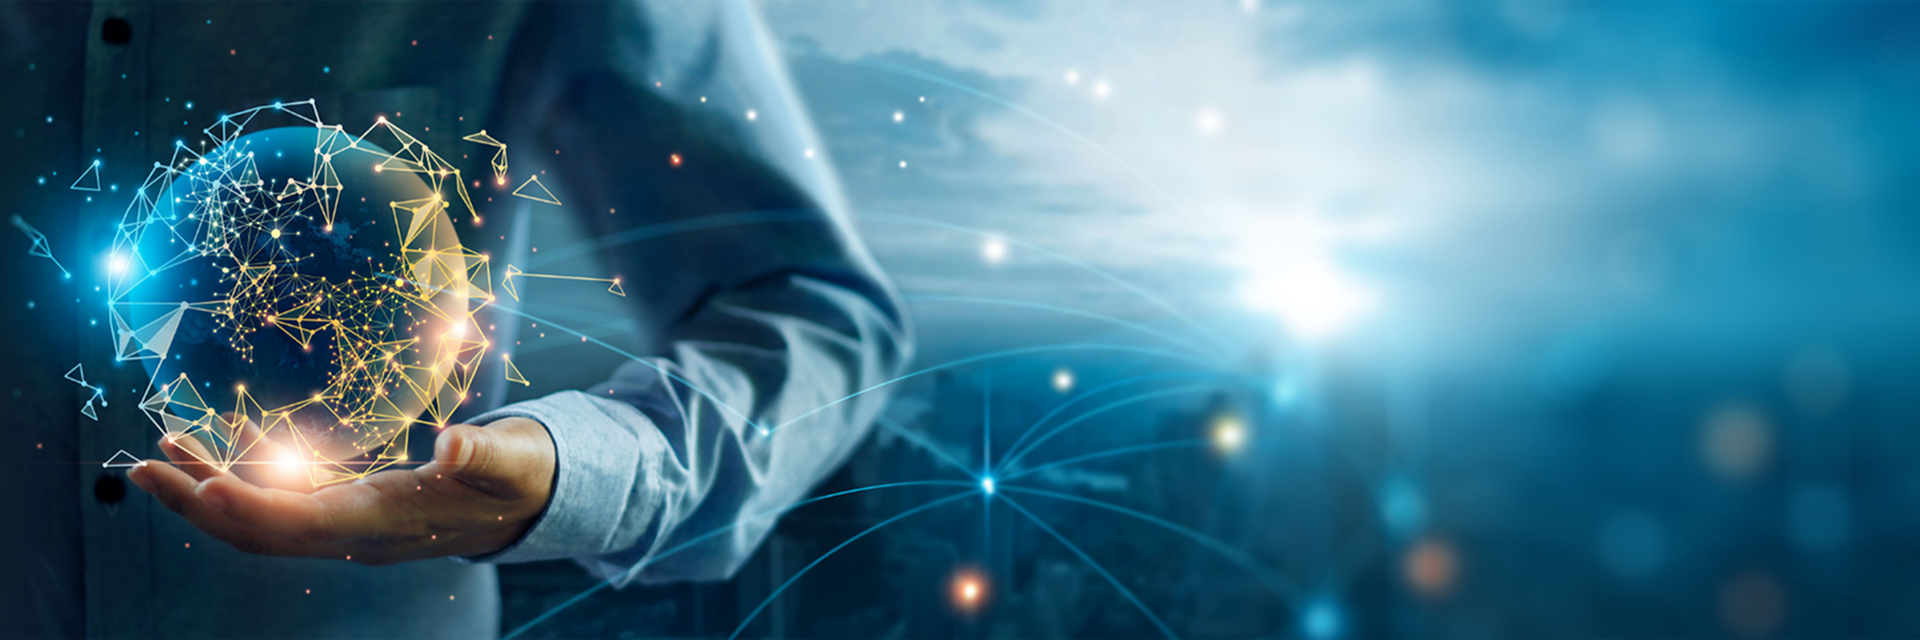
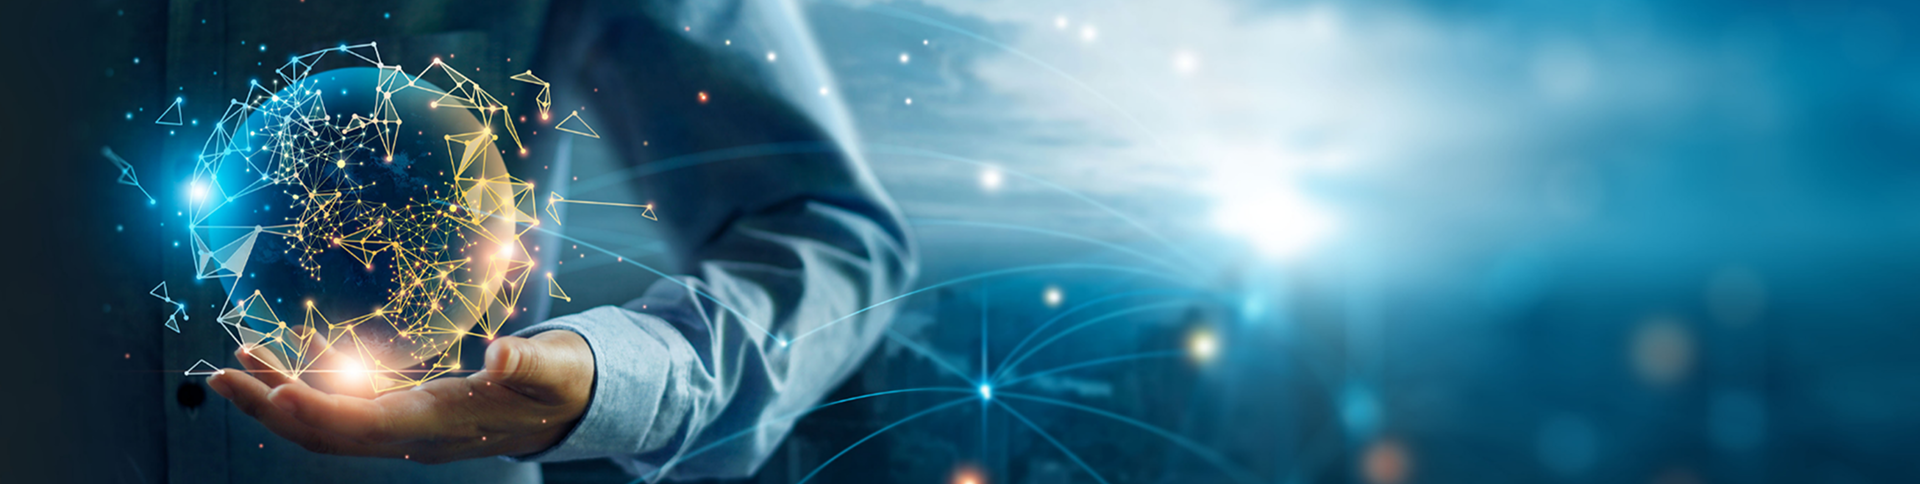
ui: 260107 피드백 반영 #124

diff --git a/src/pages/company/History.tsx b/src/pages/company/History.tsx
@@ -11,7 +11,7 @@ const History = () => {
     history_image_position,
   } = history;
   return (
-    <Box sx={{ display: "flex", flexDirection: "column" }}>
+    <Box sx={{ display: "flex", flexDirection: "column", mb: 20 }}>
       <Box
         sx={(theme) => ({
           px: "20px",
@@ -31,12 +31,13 @@ const History = () => {
         sx={(theme) => ({
           display: "flex",
           flexDirection: "column",
-          gap: 6,
+          gap: 4,
           my: 10,
           px: "20px",
           pt: "20px",
           [theme.breakpoints.up("tablet")]: {
             px: 10,
+            gap: 6,
           },
           [theme.breakpoints.up("desktop")]: {
             pt: "50px",
@@ -62,10 +63,9 @@ const History = () => {
           {history_title}
         </Typography>
         <Stack
-          sx={(theme) => ({
-            gap: 3,
-            [theme.breakpoints.up("desktop")]: { gap: 8 },
-          })}
+          sx={{
+            gap: 8,
+          }}
         >
           {history_list.map((item, index) => (
             <Box

diff --git a/src/components/company/ImageHeader.tsx b/src/components/company/ImageHeader.tsx
@@ -12,13 +12,13 @@ const ImageHeader = ({
       sx={(theme) => ({
         backgroundImage: `url(${imgUrl})`,
         width: "100%",
-        height: "640px",
+        height: "457px",
         backgroundPosition: imgPosition,
         borderRadius: "16px",
+        backgroundRepeat: "no-repeat",
         [theme.breakpoints.up("tablet")]: {
           m: 0,
           borderRadius: 0,
-          marginTop: "-2%",
         },
       })}
     />

diff --git a/src/theme/theme.ts b/src/theme/theme.ts
@@ -483,11 +483,11 @@ const theme = createTheme({
         mobilePortrait: "32px",
         mobileLandscape: "48px",
         tablet: "64px",
-        desktop: "80px",
+        desktop: "240px",
       },
       display: "flex",
       flexDirection: "column",
-      gap: "48px",
+      gap: "128px",
     },
     // Contact 페이지 상단 영역 (제목 + 폼) 컨테이너 스타일
     contactTopContainer: {

diff --git a/src/pages/company/CEO.tsx b/src/pages/company/CEO.tsx
@@ -13,7 +13,7 @@ const CEO = () => {
     ceo_image_position,
   } = ceo;
   return (
-    <Box sx={{ display: "flex", flexDirection: "column" }}>
+    <Box sx={{ display: "flex", flexDirection: "column", mb: 20 }}>
       <Box
         sx={(theme) => ({
           px: "20px",

diff --git a/src/pages/company/Partner.tsx b/src/pages/company/Partner.tsx
@@ -46,7 +46,7 @@ const Partner = () => {
   );
 
   return (
-    <Box sx={{ display: "flex", flexDirection: "column" }}>
+    <Box sx={{ display: "flex", flexDirection: "column", mb: 20 }}>
       <Box
         sx={(theme) => ({
           px: "20px",

diff --git a/src/pages/support/Support.tsx b/src/pages/support/Support.tsx
@@ -29,7 +29,7 @@ const Support = () => {
             mobilePortrait: "80px",
             mobileLandscape: "100px",
             tablet: "120px",
-            desktop: "160px",
+            desktop: "240px",
           },
         }}
       >

diff --git a/src/pages/product/dymola/VehicleDynamicsLibrary.tsx b/src/pages/product/dymola/VehicleDynamicsLibrary.tsx
@@ -116,6 +116,7 @@ const VehicleDynamicsLibrary = () => {
                 },
                 [theme.breakpoints.up("desktop")]: {
                   my: 30,
+                  mb: 36,
                 },
               })}
             >

diff --git a/src/pages/product/dymola/ThermalPowerLibrary.tsx b/src/pages/product/dymola/ThermalPowerLibrary.tsx
@@ -115,6 +115,7 @@ const ThermalPowerLibrary = () => {
                 },
                 [theme.breakpoints.up("desktop")]: {
                   my: 30,
+                  mb: 36,
                 },
               })}
             >

diff --git a/src/pages/product/vissim/VissimAutomotive.tsx b/src/pages/product/vissim/VissimAutomotive.tsx
@@ -115,6 +115,7 @@ const VissimAutomotive = () => {
                 },
                 [theme.breakpoints.up("desktop")]: {
                   my: 30,
+                  mb: 36,
                 },
               })}
             >

diff --git a/src/pages/product/vtd/VTDFullstack.tsx b/src/pages/product/vtd/VTDFullstack.tsx
@@ -118,6 +118,7 @@ const VTDFullstack = () => {
                 },
                 [theme.breakpoints.up("desktop")]: {
                   my: 30,
+                  mb: 36,
                 },
               })}
             >

diff --git a/src/pages/product/vtd/VTDSimulate.tsx b/src/pages/product/vtd/VTDSimulate.tsx
@@ -118,6 +118,7 @@ const VTDSimulate = () => {
                 },
                 [theme.breakpoints.up("desktop")]: {
                   my: 30,
+                  mb: 36,
                 },
               })}
             >

diff --git a/src/pages/product/vtd/VTDCreate.tsx b/src/pages/product/vtd/VTDCreate.tsx
@@ -115,6 +115,7 @@ const VTDCreate = () => {
                 },
                 [theme.breakpoints.up("desktop")]: {
                   my: 30,
+                  mb: 36,
                 },
               })}
             >
